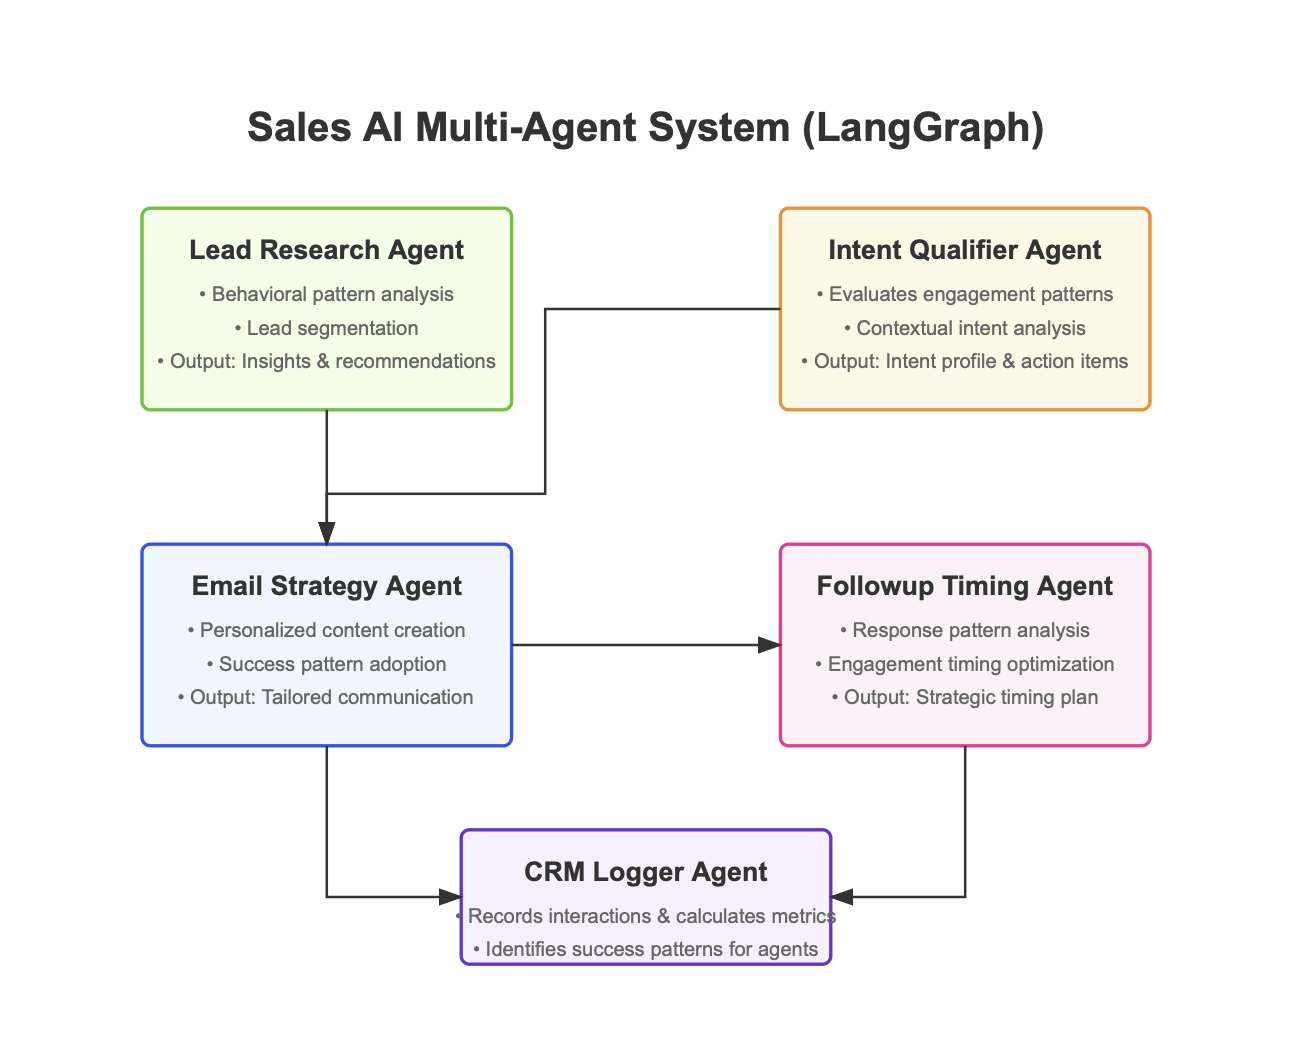
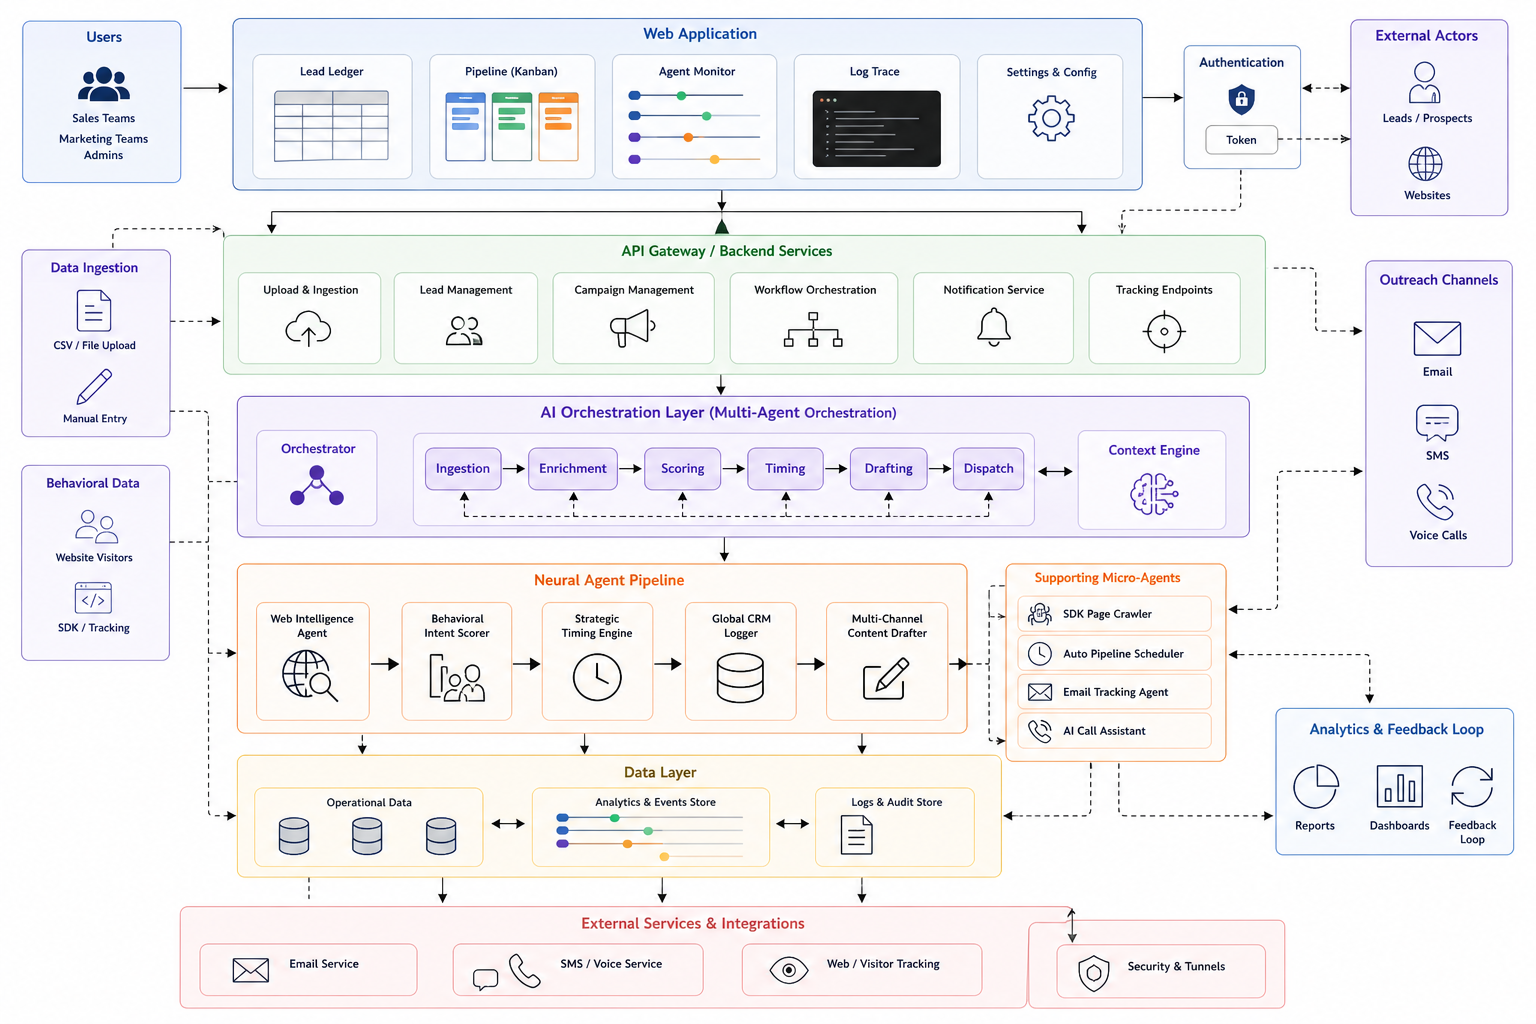
docs: initialize project documentation and add core frontend navigation components

diff --git a/frontend/src/components/Header.tsx b/frontend/src/components/Header.tsx
@@ -1,8 +1,12 @@
 "use client";
 import { useEffect, useState } from "react";
+import Link from "next/link";
+import { usePathname } from "next/navigation";
 
-export default function Header() {
-    const [user, setUser] = useState(null);
+export default function Header({ toggleSidebar, isSidebarOpen }: { toggleSidebar?: () => void, isSidebarOpen?: boolean }) {
+    const [user, setUser] = useState<any>(null);
+    const pathname = usePathname();
+    const [isMobileMenuOpen, setIsMobileMenuOpen] = useState(false);
 
     useEffect(() => {
         const token = localStorage.getItem("access_token");
@@ -32,27 +36,57 @@ export default function Header() {
         window.location.href = "/login";
     };
 
+    const navItems = [
+        { name: "Dashboard",     path: "/",              icon: "dashboard" },
+        { name: "The Leads",     path: "/ledger",         icon: "table_chart" },
+        { name: "Pipeline",      path: "/pipeline",       icon: "view_kanban" },
+        { name: "Task Board",    path: "/tasks",          icon: "task_alt" },
+        { name: "Live Tracking", path: "/tracking",       icon: "radar" },
+        { name: "Upload Leads",  path: "/upload",         icon: "cloud_upload" },
+        { name: "Multi-Channel Designer",path: "/designer", icon: "draw" },
+        { name: "Agent Monitor", path: "/agents",         icon: "memory", badge: "RUNNING" },
+        { name: "Settings",      path: "/settings",       icon: "settings" },
+    ];
+
     return (
-        <header className="bg-ink text-paper h-12 flex items-center justify-between px-6 border-b border-ink shrink-0 z-50">
+        <header className="bg-ink text-paper h-12 flex items-center justify-between px-4 sm:px-6 border-b border-ink shrink-0 z-50 relative">
             <div className="flex items-center gap-3">
-                <div className="w-8 h-8 flex items-center justify-center">
+                {/* Mobile Dropdown Toggle */}
+                <button 
+                    onClick={() => setIsMobileMenuOpen(!isMobileMenuOpen)} 
+                    className="md:hidden flex items-center justify-center w-8 h-8 hover:bg-paper/10 transition-colors rounded"
+                >
+                    <span className="material-symbols-outlined">{isMobileMenuOpen ? 'close' : 'menu'}</span>
+                </button>
+
+                {/* Desktop Sidebar Toggle */}
+                {toggleSidebar && (
+                    <button 
+                        onClick={toggleSidebar} 
+                        className="hidden md:flex items-center justify-center w-8 h-8 hover:bg-paper/10 transition-colors rounded"
+                    >
+                        <span className="material-symbols-outlined">{isSidebarOpen ? 'menu_open' : 'menu'}</span>
+                    </button>
+                )}
+
+                <div className="w-8 h-8 hidden sm:flex items-center justify-center">
                     <img src="/logo.png" alt="LeadMind" className="w-full h-full object-contain" />
                 </div>
-                <a href="/" className="font-display font-bold text-xl tracking-tight hover:text-primary transition-colors">
+                <Link href="/" className="font-display font-bold text-xl tracking-tight hover:text-primary transition-colors">
                     LeadMind
-                </a>
+                </Link>
             </div>
 
             <div className="flex items-center gap-6 font-mono text-sm">
-                <div className="flex items-center gap-2 hidden md:flex">
+                <div className="flex items-center gap-2 hidden lg:flex">
                     <span className="w-2 h-2 bg-data-green rounded-full animate-pulse"></span>
                     <span>SYSTEM ONLINE</span>
                 </div>
 
-                <div className="border-l border-white/20 pl-6 flex items-center gap-4">
+                <div className="border-l border-white/20 pl-4 sm:pl-6 flex items-center gap-4">
                     {isLoggedIn ? (
                         <>
-                            <span className="uppercase text-paper/70 hidden sm:inline-block">COMPANY NAME: <span className="text-paper font-bold">{userDisplay || "Loading..."}</span></span>
+                            <span className="uppercase text-paper/70 hidden sm:inline-block">COMPANY: <span className="text-paper font-bold">{userDisplay || "Loading..."}</span></span>
                             <button
                                 onClick={handleLogout}
                                 className="px-3 py-1 text-xs border border-paper/30 hover:bg-paper hover:text-ink transition-colors uppercase font-bold"
@@ -61,17 +95,42 @@ export default function Header() {
                             </button>
                         </>
                     ) : (
-                        <div className="flex gap-3">
-                            <a href="/login" className="px-4 py-1.5 text-xs hover:text-primary transition-colors uppercase font-bold">
+                        <div className="flex gap-2 sm:gap-3">
+                            <Link href="/login" className="px-3 sm:px-4 py-1.5 text-xs hover:text-primary transition-colors uppercase font-bold">
                                 Sign In
-                            </a>
-                            <a href="/signup" className="px-4 py-1.5 text-xs bg-primary text-white hover:bg-white hover:text-ink transition-colors uppercase font-bold">
+                            </Link>
+                            <Link href="/signup" className="px-3 sm:px-4 py-1.5 text-xs bg-primary text-white hover:bg-white hover:text-ink transition-colors uppercase font-bold">
                                 Sign Up
-                            </a>
+                            </Link>
                         </div>
                     )}
                 </div>
             </div>
+
+            {/* Mobile Navigation Dropdown */}
+            {isMobileMenuOpen && (
+                <div className="absolute top-12 left-0 right-0 bg-ink border-b border-paper/20 shadow-xl md:hidden flex flex-col z-40 max-h-[calc(100vh-3rem)] overflow-y-auto">
+                    {navItems.map((item) => {
+                        const isActive = pathname === item.path;
+                        return (
+                            <Link
+                                key={item.path}
+                                href={item.path}
+                                onClick={() => setIsMobileMenuOpen(false)}
+                                className={`flex items-center gap-3 px-6 py-4 border-b border-paper/10 transition-colors ${isActive ? 'bg-primary/20 text-primary' : 'text-paper hover:bg-paper/10'}`}
+                            >
+                                <span className="material-symbols-outlined text-[20px]">{item.icon}</span>
+                                <span className={`font-display text-sm tracking-wide uppercase ${isActive ? 'font-bold' : 'font-medium'}`}>{item.name}</span>
+                                {item.badge && (
+                                    <span className="ml-auto font-mono text-xs bg-mute px-1 border border-ink text-ink">
+                                        {item.badge}
+                                    </span>
+                                )}
+                            </Link>
+                        );
+                    })}
+                </div>
+            )}
         </header>
     );
 }

diff --git a/frontend/src/components/DashboardLayout.js b/frontend/src/components/DashboardLayout.js
@@ -7,6 +7,7 @@ import { useRouter } from "next/navigation";
 export default function DashboardLayout({ children }) {
   const router = useRouter();
   const [isAuthorized, setIsAuthorized] = useState(false);
+  const [isSidebarOpen, setIsSidebarOpen] = useState(true);
 
   useEffect(() => {
     const token = localStorage.getItem("access_token");
@@ -46,9 +47,9 @@ export default function DashboardLayout({ children }) {
 
   return (
     <div className="flex flex-col h-screen overflow-hidden text-ink bg-mute">
-      <Header />
+      <Header toggleSidebar={() => setIsSidebarOpen(!isSidebarOpen)} isSidebarOpen={isSidebarOpen} />
       <div className="flex flex-1 overflow-hidden">
-        <Sidebar />
+        <Sidebar isOpen={isSidebarOpen} />
         <main className="flex-1 flex flex-col overflow-y-auto bg-grid-pattern relative">
           {children}
         </main>

diff --git a/frontend/src/components/Sidebar.tsx b/frontend/src/components/Sidebar.tsx
@@ -1,7 +1,7 @@
 import Link from "next/link";
 import { usePathname } from "next/navigation";
 
-export default function Sidebar() {
+export default function Sidebar({ isOpen = true }: { isOpen?: boolean }) {
     const pathname = usePathname();
 
     const navItems = [
@@ -17,7 +17,7 @@ export default function Sidebar() {
     ];
 
     return (
-        <aside className="w-[250px] bg-paper border-r border-ink flex flex-col shrink-0 overflow-y-auto hidden md:flex">
+        <aside className={`w-[250px] bg-paper border-r border-ink flex flex-col shrink-0 overflow-y-auto hidden md:flex ${!isOpen && '!hidden'}`}>
             <nav className="flex flex-col w-full">
                 {navItems.map((item) => {
                     const isActive = pathname === item.path;

diff --git a/README.md b/README.md
@@ -1,0 +1,105 @@
+# ⚡ LeadMind: The Autonomous Multi-Agent Sales Engine
+
+**LeadMind** is a state-of-the-art Sales Development Representative (SDR) automation platform. It leverages a sophisticated **Multi-Agent Architecture** to bridge the gap between high-scale automation and deep, human-like personalization.
+
+By combining real-time behavioral tracking with autonomous AI research agents, LeadMind identifies high-intent prospects and engages them with hyper-personalized outreach exactly when they are most likely to convert.
+
+---
+
+## 🛠️ System Architecture
+The core of LeadMind is built on **LangGraph**, orchestrating a sequence of specialized AI agents that process leads through a neural pipeline. The system maintains a persistent "State" object that matures as each agent enriches the lead profile.
+
+![System Architecture](./assets/architecture.png)
+
+---
+
+## 🚀 Platform Features
+
+### 1. Centralized Dashboard
+The executive command center for your sales operation. It visualizes core KPIs including conversion velocity, lead acquisition cost, and a breakdown of intent-score distribution across your total addressable market.
+![Dashboard](./assets/Dashboard.png)
+
+### 2. The Lead Ledger (Unified Intelligence)
+A high-density, low-latency data grid designed for rapid lead management. It provides a single-pane-of-glass view into enriched firmographics, validated social links, and AI-summarized company intelligence, allowing for instant filtering by "completed" and "dispatched" status.
+![The Ledger](./assets/Leadger.png)
+
+### 3. Agent Monitor (Neural Pipeline Trace)
+Transparency into the "Hidden SDR" workforce. This real-time visualization tracks the progress of each AI agent (Research, Intent, Timing, CRM, and Drafter) as they process high-volume batches through the LangGraph pipeline.
+![Agent Monitor](./assets/AgentMonitor.png)
+
+---
+
+## 🔍 Detailed Lead Intelligence & Outreach Channels
+
+### 🧬 Identity, Enrichment & Intent Analytics
+The LeadMind enrichment wing automatically identifies the prospect's company size, industry, and exact office region. It simultaneously processes real-time tracking signals—such as email opens and link clicks—to build a multi-dimensional picture of the prospect's receptivity.
+![Identity & Intent](./assets/LeadPage1.png)
+
+### ✍️ AI Content Drafting, Web Scraping & Strategic Follow-up Timers
+Our drafting agents perform deep web-scrapes of company domains to extract specific product contexts and USPs. This data is injected into hyper-personalized email drafts, while autonomous "Timing Engines" manage strategic follow-up intervals to ensure your messages hit the inbox at peak engagement hours.
+![Drafting & Scraping 1](./assets/LeadPage2_1.png)
+![Drafting & Scraping 2](./assets/LeadPage2_2.png)
+
+### 💬 SMS Channel Integration
+High-deliverability SMS engagement for immediate, direct-to-mobile follow-ups. This channel is primarily used for urgent intent alerts or "quick-touch" relationship building, ensuring you stay top-of-mind.
+![SMS Outreach](./assets/LeadPage3.png)
+
+### 🟢 WhatsApp Business Intelligence
+Harness the power of the world’s most active messaging platform. LeadMind drafts and manages WhatsApp outreach, allowing for rich-media engagement and high-response conversational threads.
+![WhatsApp Outreach](./assets/LeadPage4.png)
+
+### 📞 AI Voice & Virtual Call Assistant
+When a lead hits a critical "Hot" threshold, the system can trigger an AI-driven Voice Assistant to execute automated follow-up calls or personalized voice-mail drops, bridging the gap between digital and verbal engagement.
+![AI Voice Assistant](./assets/LeadPage5.png)
+
+### 📝 CRM Performance Audit & Logger
+Ensuring 100% transparency. The `AGN_CRM` agent maintains a rigorous audit trail of every status transition, communication event, and AI-generated draft, keeping your core database perfectly in sync with your team's workflow.
+![CRM Logger](./assets/LeadPage6.png)
+
+### 📊 Behavioral SDK & Visitor Profiling
+The LeadMind SDK provides the "Digital DNA" of your visitors. It tracks deep engagement metrics including **Visitor Behavioral Profiles**, **Intent Score (e.g., 65/100)**, **Total Pages Viewed**, **Dwell Time**, and **Max Scroll Depth**—allowing you to distinguish casual browsers from active buyers.
+![Visitor Behavioral Profile](./assets/LeadPage7.png)
+
+---
+
+## 🔄 The Pipeline Workflow
+
+### Multi-Channel Kanban Pipeline
+A visual deals board that manages the lifecycle of a lead. The AI automatically transitions prospects through custom stages (New Lead -> Dispatched -> Meeting Booked) based on engagement signals captured by the SDK and tracking pixel.
+![Pipeline](./assets/Pipeline.png)
+
+### High-Fidelity Multi-Channel Designer
+Create and test dynamic templates that adapt their content fragments based on the AI's research. Preview exactly how your personalization will appear across Email, SMS, and LinkedIn.
+![Designer](./assets/Designer.png)
+
+### Strategic Task Board
+For complex leads requiring a "Human Touch," the system automatically generates high-priority manual tasks. This ensures your human SDRs spend their time on high-leverage closing activities rather than data entry.
+![Task Board](./assets/TaskBoard.png)
+
+---
+
+## 🧠 The Agent Intelligence Suite
+*   **AGN_RES (Research)**: Deep-scrapes the web for company USPs and pain points.
+*   **AGN_INT (Intent)**: Scores leads based on live behavioral pulses from the SDK.
+*   **AGN_TIM (Timing)**: Optimizes dispatch windows based on lead timezones.
+*   **AGN_CRM (Logger)**: Ensures every AI action is audited and logged to MongoDB.
+*   **AGN_MUL (Drafter)**: Generates 1:1 personalized content fragments for outreach.
+
+---
+
+## 📺 Demo Video
+Click the link below to watch LeadMind in action:
+
+[**WATCH THE DEMO VIDEO HERE**](https://drive.google.com/file/d/1z9Wme1SUSWEZovgsQ2Lw3eknU-esfZno/view?usp=sharing)
+
+---
+
+## ⚙️ Tech Stack
+- **Backend**: FastAPI, LangGraph, Motor (Async MongoDB), BeautifulSoup4,MicroLink,PlayWright,Chromium
+- **Frontend**: Next.js 14, TailwindCSS, Lucide-React
+- **Database**: MongoDB Atlas
+- **Orchestration**: LangChain, OLLAMA
+- **Connectivity**: Twilio, SMTP, Cloudflare Tunnels
+
+---
+*Built with ❤️ by the LeadMind Team.*